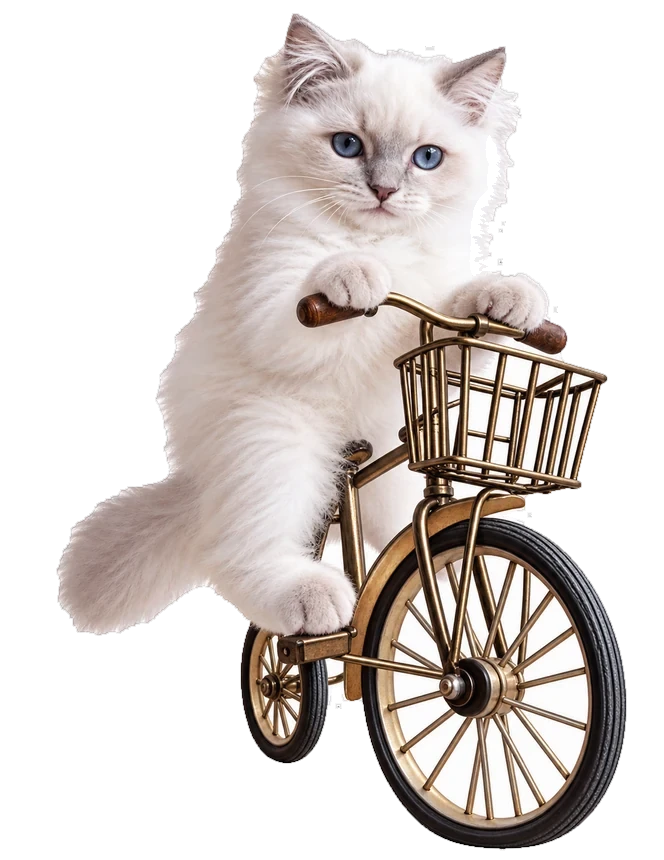
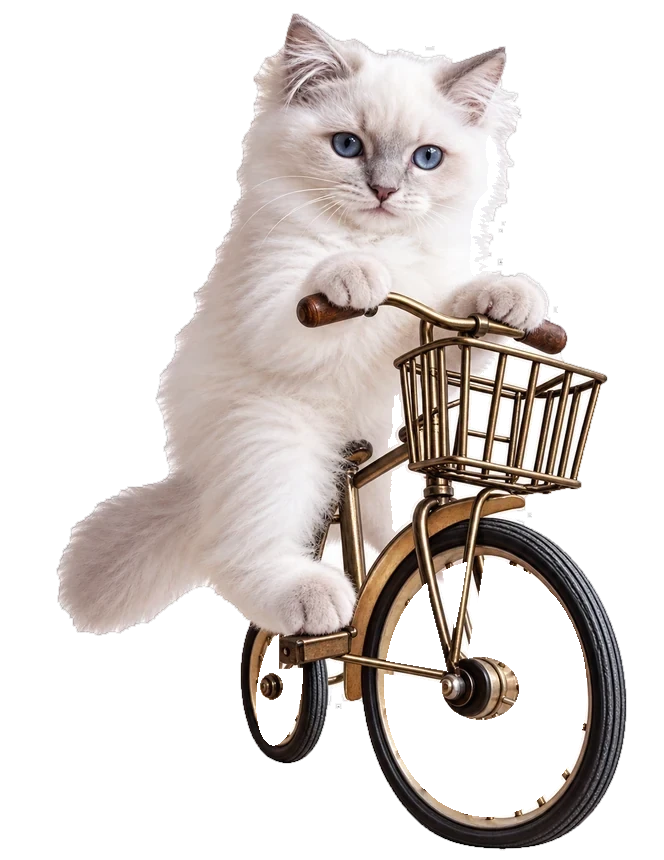
feat(animation): Add animated prop rigs for tricycle and sewing
Introduce support for stickers with moving parts by adding rigs.tsx and new rig image assets (public/palais/props/rigs/*). Prop.tsx now looks up RIGS and renders under/over layers inside a .prop-rig wrapper. Add CSS for trellis seasonal visibility, prop-rig layering, spinning wheel animation, and sewing-machine needle/fabric animations. StickerToggle now tracks currentSeason, exposes data-season on the scene, and updates more frequently; skipSeason updates the tracked season. Remove the honeysuckle-sewing-floral Prop from PalaisHome and update the honeysuckle tricycle/sewing images.

diff --git a/src/palais/rigs.tsx b/src/palais/rigs.tsx
@@ -1,0 +1,95 @@
+import type { ReactNode } from "react";
+
+/**
+ * Stickers with moving parts.
+ *
+ * A rig is drawn in the sticker's own pixel space (the viewBox, or a layer
+ * image the same size as the sticker), so it lines up at any size. `under`
+ * paints behind the sticker and `over` in front of it. The sticker image
+ * itself has had the moving parts cut out of it (see the rig scripts in the
+ * Palais notes): the tricycle's spokes and the white showing between them, and
+ * the sewing machine's needle bar.
+ */
+
+export interface Rig {
+  under?: ReactNode;
+  over?: ReactNode;
+}
+
+const layer = (name: string) => `${process.env.PUBLIC_URL}/palais/props/rigs/${name}.webp`;
+
+/* ---- Honeysuckle's bicycle ------------------------------------------------ */
+
+interface Wheel {
+  /** the wheel's outline, as an ellipse in sticker pixels */
+  cx: number;
+  cy: number;
+  rx: number;
+  ry: number;
+  tilt: number;
+  spokes: number;
+  /** seconds per turn */
+  turn: number;
+}
+
+/* Measured off the photograph. The small back wheel turns faster, in
+   proportion, because both cover the same ground. */
+const WHEELS: Wheel[] = [
+  { cx: 485, cy: 688, rx: 104, ry: 131, tilt: -2, spokes: 20, turn: 3.2 },
+  { cx: 279, cy: 688, rx: 23, ry: 58, tilt: 7, spokes: 12, turn: 1.4 },
+];
+
+/**
+ * Spokes are drawn on a unit circle that spins, and the circle is then
+ * squashed into the wheel's ellipse — so they bunch and spread as they come
+ * round, the way real spokes seen at an angle do.
+ */
+function Spokes({ w }: { w: Wheel }) {
+  const unit = 3.4 / ((w.rx + w.ry) / 2); // a spoke about 3.4px thick
+  const lines = Array.from({ length: w.spokes }, (_, i) => {
+    const t = (i / w.spokes) * Math.PI * 2;
+    return { x: Math.cos(t) * 1.04, y: Math.sin(t) * 1.04 };
+  });
+  return (
+    <g transform={`translate(${w.cx} ${w.cy}) rotate(${w.tilt}) scale(${w.rx} ${w.ry})`}>
+      <g className="palais-spin" style={{ animationDuration: `${w.turn}s` }}>
+        {lines.map((p, i) => (
+          <line key={i} x1={0} y1={0} x2={p.x} y2={p.y} stroke="#7d5f35" strokeWidth={unit} strokeLinecap="round" />
+        ))}
+        {lines.map((p, i) => (
+          <line key={`h${i}`} x1={0} y1={0} x2={p.x} y2={p.y} stroke="#e4c891" strokeWidth={unit * 0.38} strokeLinecap="round" opacity={0.85} />
+        ))}
+      </g>
+    </g>
+  );
+}
+
+const tricycle: Rig = {
+  under: (
+    <svg className="prop-rig-layer" viewBox="0 0 664 860" preserveAspectRatio="none" aria-hidden>
+      {WHEELS.map((w, i) => (
+        <Spokes key={i} w={w} />
+      ))}
+    </svg>
+  ),
+};
+
+/* ---- Honeysuckle at the sewing machine ------------------------------------- */
+
+const sewing: Rig = {
+  over: (
+    <>
+      {/* the cloth, tugged along a little with each stitch */}
+      <img className="prop-rig-layer palais-rig-fabric" src={layer("honeysuckle-sewing-fabric")} alt="" decoding="async" />
+      {/* the needle bar, going up and down */}
+      <img className="prop-rig-layer palais-rig-needle" src={layer("honeysuckle-sewing-needle")} alt="" decoding="async" />
+      {/* what the needle slides through, and her paw holding the cloth down */}
+      <img className="prop-rig-layer" src={layer("honeysuckle-sewing-front")} alt="" decoding="async" />
+    </>
+  ),
+};
+
+export const RIGS: Partial<Record<string, Rig>> = {
+  "honeysuckle-tricycle": tricycle,
+  "honeysuckle-sewing": sewing,
+};

diff --git a/src/palais/palais.css b/src/palais/palais.css
@@ -355,6 +355,69 @@
     saturate(0.82) brightness(1.06) blur(0.4px);
 }
 
+/* The trellises are a spring thing: they fade out as summer arrives and come
+   back as winter turns to spring, over the same 5s as the photographs. */
+.palais [data-season] [data-group="trellises"] {
+  transition: opacity 5s ease-in-out, visibility 0s linear 0s;
+}
+.palais [data-season]:not([data-season="spring"]) [data-group="trellises"] {
+  opacity: 0;
+  visibility: hidden;
+  transition: opacity 5s ease-in-out, visibility 0s linear 5s;
+}
+
+/* A sticker with moving parts is several layers; the plane's filter goes on
+   the stack as a whole, so the layers don't each cast a shadow on the others. */
+.palais .prop-rig { position: relative; }
+.palais .prop-rig > img:not(.prop-rig-layer) { position: relative; }
+.palais .prop-rig .prop-rig-layer {
+  position: absolute;
+  inset: 0;
+  width: 100%;
+  height: 100%;
+  pointer-events: none;
+}
+.palais .prop .prop-rig img { filter: none !important; }
+.palais .prop--near .prop-rig {
+  filter: drop-shadow(0 0 5px var(--rim)) drop-shadow(12px 24px 18px rgba(52, 36, 18, 0.46));
+}
+.palais .prop--mid .prop-rig {
+  filter: drop-shadow(0 0 4px var(--rim)) drop-shadow(7px 15px 14px rgba(52, 36, 18, 0.38));
+}
+
+/* bicycle wheels: the spokes turn */
+.palais .palais-spin {
+  transform-box: view-box;
+  transform-origin: 0 0;
+  animation: palais-spin 3s linear infinite;
+}
+@keyframes palais-spin {
+  to { transform: rotate(360deg); }
+}
+
+/* the sewing machine: the needle bar rises and plunges, and the cloth is
+   drawn along a little while the needle is out of it, and drapes */
+.palais .palais-rig-needle { animation: palais-needle 0.72s ease-in-out infinite; }
+@keyframes palais-needle {
+  0%, 100% { translate: 0 0; }
+  50%      { translate: 0 -3.5%; }
+}
+.palais .palais-rig-fabric {
+  transform-origin: 45% 62%;
+  animation:
+    palais-feed 0.72s ease-in-out infinite,
+    palais-drape 5.5s ease-in-out infinite;
+}
+@keyframes palais-feed {
+  0%, 30%  { translate: 0 0; }
+  62%      { translate: -0.9% 0.15%; }
+  100%     { translate: 0 0; }
+}
+@keyframes palais-drape {
+  0%, 100% { rotate: 0deg; }
+  50%      { rotate: -0.6deg; }
+}
+
 /* The room's switches (StickerToggle) set these on the scene. Hiding by group
    with a rule, rather than wrapping the props, leaves every prop where it
    stands in the paint order. */

diff --git a/src/palais/StickerToggle.tsx b/src/palais/StickerToggle.tsx
@@ -1,6 +1,6 @@
 import { useEffect, useRef, useState, type ReactNode } from "react";
 import { arrivalVars } from "./conjureSchedule";
-import { skipSeason, upcomingSeason, type Season } from "./seasons";
+import { currentSeason, skipSeason, upcomingSeason, type Season } from "./seasons";
 
 /**
  * Small brass switches pinned to the top-right corner of the room.
@@ -28,17 +28,21 @@ export function StickerToggle({ children, seasons = false }: { children: ReactNo
 
   const switches = useRef<HTMLDivElement>(null);
   const [upcoming, setUpcoming] = useState<Season>("summer");
+  const [season, setSeason] = useState<Season>("spring");
   const stage = () => switches.current?.closest(".palais-stage") ?? null;
 
-  // keep the label in step with the year as it turns on its own
+  // keep the label, and the season the room is dressed for, in step with the
+  // year as it turns on its own
   useEffect(() => {
     if (!seasons) return;
     const tick = () => {
       const scope = switches.current?.closest(".palais-stage");
-      if (scope) setUpcoming(upcomingSeason(scope));
+      if (!scope) return;
+      setUpcoming(upcomingSeason(scope));
+      setSeason(currentSeason(scope));
     };
     tick();
-    const id = setInterval(tick, 1000);
+    const id = setInterval(tick, 250);
     return () => clearInterval(id);
   }, [seasons]);
 
@@ -53,6 +57,7 @@ export function StickerToggle({ children, seasons = false }: { children: ReactNo
               if (!scope) return;
               skipSeason(scope);
               setUpcoming(upcomingSeason(scope));
+              setSeason(currentSeason(scope));
             }}
             aria-label={`Skip to ${upcoming}`}
             className="palais-pill palais-pill--action"
@@ -102,6 +107,7 @@ export function StickerToggle({ children, seasons = false }: { children: ReactNo
         style={{ ...arrivalVars(), display: room ? undefined : "none" }}
         data-hide-blossoms={blossoms ? undefined : ""}
         data-hide-trellises={trellises ? undefined : ""}
+        data-season={seasons ? season : undefined}
       >
         {children}
       </div>

diff --git a/src/palais/PalaisHome.tsx b/src/palais/PalaisHome.tsx
@@ -258,7 +258,6 @@ export default function PalaisHome() {
           <Prop id="kitten-strawberry" w={w(0.5, 0.955)} left="28.0%" ground={at(0.955).ground} tilt={-1} motion="bob" dur={13} rise={2} z={70} ghost ghostDur={35} delay={-8} className={lg} />
           <Prop id="cat-blueberry-sitting" w={w(0.5, 0.955)} left="38.8%" ground={at(0.955).ground} tilt={-1} motion="bob" dur={13} rise={2} z={70} ghost ghostDur={31} delay={-5} className={md} />
           <Prop id="honeysuckle-bow" w={w(0.5, 0.955)} left="49.6%" ground={at(0.955).ground} tilt={1} motion="bob" dur={15} rise={2} z={70} ghost ghostDur={42} delay={-18} className={lg} />
-          <Prop id="honeysuckle-sewing-floral" w={w(0.5, 0.955)} left="60.4%" ground={at(0.955).ground} tilt={-1} motion="bob" dur={14} rise={2} z={70} ghost ghostDur={47} delay={-38} className={lg} />
           <Prop id="cat-honeysuckle" w={w(0.5, 0.955)} left="71.2%" ground={at(0.955).ground} tilt={-2} motion="bob" dur={14} rise={2} z={70} ghost ghostDur={41} delay={-14} className={lg} />
           <Prop id="kittens-christmas" w={w(0.58, 0.99)} left="87.4%" ground={at(0.99).ground} tilt={1} motion="bob" dur={14} rise={2} z={70} ghost ghostDur={43} delay={-30} className={md} />
           <Prop id="cat-strawberry-window" w={w(0.5, 0.955)} left="82.0%" ground={at(0.955).ground} tilt={-1} motion="bob" dur={16} rise={2} z={72} ghost ghostDur={49} delay={-28} className={lg} />

diff --git a/src/palais/Prop.tsx b/src/palais/Prop.tsx
@@ -1,6 +1,7 @@
 import type { Styled } from "./styled";
 import { propSpec, propSrc, type Plane, type PropId } from "./props";
 import type { SetName } from "./conjureSchedule";
+import { RIGS } from "./rigs";
 import { Conjure } from "./Conjure";
 
 type Motion = "bob" | "swing" | "rustle" | "drift" | "turn" | "none";
@@ -109,6 +110,8 @@ export function Prop({
   const spec = propSpec(id);
   const p: Plane = plane ?? spec.plane ?? "mid";
   const sh = SHADOW[p];
+  /* stickers with moving parts (rigs.tsx) */
+  const rig = RIGS[id];
 
   const outer: Styled = {
     position: "absolute",
@@ -163,7 +166,15 @@ export function Prop({
           )}
 
           <div className={filterClass} style={{ transform: flip ? "scaleX(-1)" : undefined }}>
-                        <img src={propSrc(id)} alt={spec.label} loading="lazy" decoding="async" />
+            {rig ? (
+              <div className="prop-rig">
+                {rig.under}
+                <img src={propSrc(id)} alt={spec.label} loading="lazy" decoding="async" />
+                {rig.over}
+              </div>
+            ) : (
+              <img src={propSrc(id)} alt={spec.label} loading="lazy" decoding="async" />
+            )}
           </div>
         </div>
       </Conjure>
